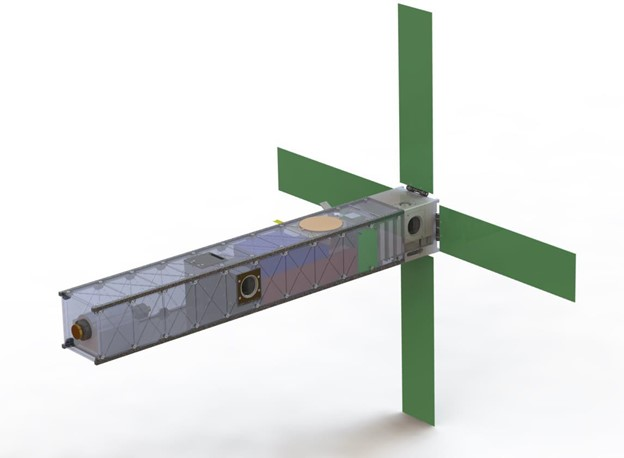
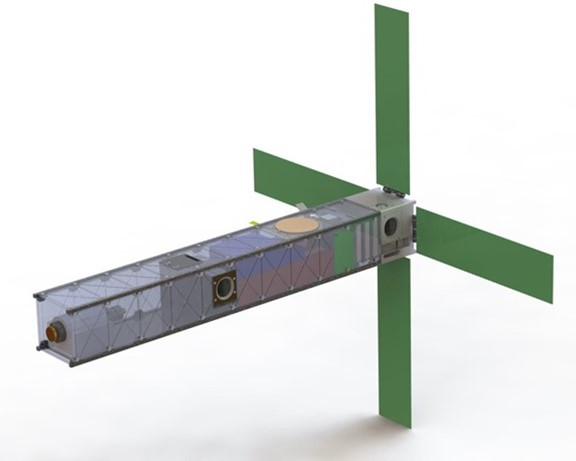
added images of right size

diff --git a/index.html b/index.html
@@ -624,21 +624,21 @@
 															</ol>
 															<div class="carousel-inner">
 															  <div class="carousel-item active">
-																<img class="d-block w-100" src="img/InspireSat.png" alt="First slide">
+																<img class="d-block w-100" src="img/canvassat.png" alt="First slide">
 																<div class="carousel-caption d-none d-md-block">
 																	<h5>abc</h5>
 																	<p>abc</p>
 																  </div>
 															  </div>
 															  <div class="carousel-item">
-																<img class="d-block w-100" src="img/aepexsat.png" alt="Second slide">
+																<img class="d-block w-100" src="img/cosmosat.jpg" alt="Second slide">
 																<div class="carousel-caption d-none d-md-block">
 																	<h5>abc</h5>
 																	<p>abc</p>
 																  </div>
 															  </div>
 															  <div class="carousel-item">
-																<img class="d-block w-100" src="img/airindialogo.png" alt="Third Slide">
+																<img class="d-block w-100" src="img/IS-3 deployed 3.JPG" alt="Third Slide">
 																<div class="carousel-caption d-none d-md-block">
 																  <h5>abc</h5>
 																  <p>abc</p>
